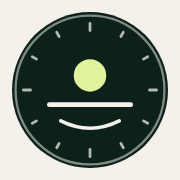
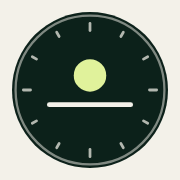
fix: simplify the approved horizon mark by removing the smile-like curve

Changed region(s): [[0.3056, 0.6389, 0.6944, 0.7222]]

diff --git a/docs/CINEMATIC-BRAND.md b/docs/CINEMATIC-BRAND.md
@@ -2,7 +2,7 @@
 
 ## Identity
 
-Original sun-and-horizon seal with twelve timing ticks. Forest #0c211a, ivory #f3f1e9 and lime #e0f29b match the approved cinematic homepage. The primary wordmark remains Lost Luggage Legend; Goldilocks Zone is a small product descriptor, not a site/route rename.
+Original sun-and-horizon seal with twelve timing ticks. The decorative lower curve was removed at the Commander's request because it read as a smile. Forest #0c211a, ivory #f3f1e9 and lime #e0f29b match the approved cinematic homepage. The primary wordmark remains Lost Luggage Legend; Goldilocks Zone is a small product descriptor, not a site/route rename.
 
 `public/brand/goldilocks-mark.svg` is the single vector source for the header and browser icon. It is self-authored with no external imagery, embedded scripts, external fonts, paid design service or new dependency. `scripts/render-brand-icons.cjs` regenerates the real 32px favicon and 180px Apple PNG from this SVG using existing Playwright.
 
@@ -29,4 +29,4 @@ This is focused logo/navigation/layout verification, not a claim of the full sit
 
 ## Delivery state
 
-Local working design preview only. Production is unchanged. Review the new logo in the actual homepage context before publishing a brand change. Proof images/HTML and test traces live in scratch, not in the deployed site.
+The Commander approved the identity after removing the decorative curve and explicitly authorized publishing it. This document records the preview-stage checks; the release must additionally record its exact tested/merge commits, production deployment and live read-back verification. Proof images/HTML and test traces live in scratch, not in the deployed site.
